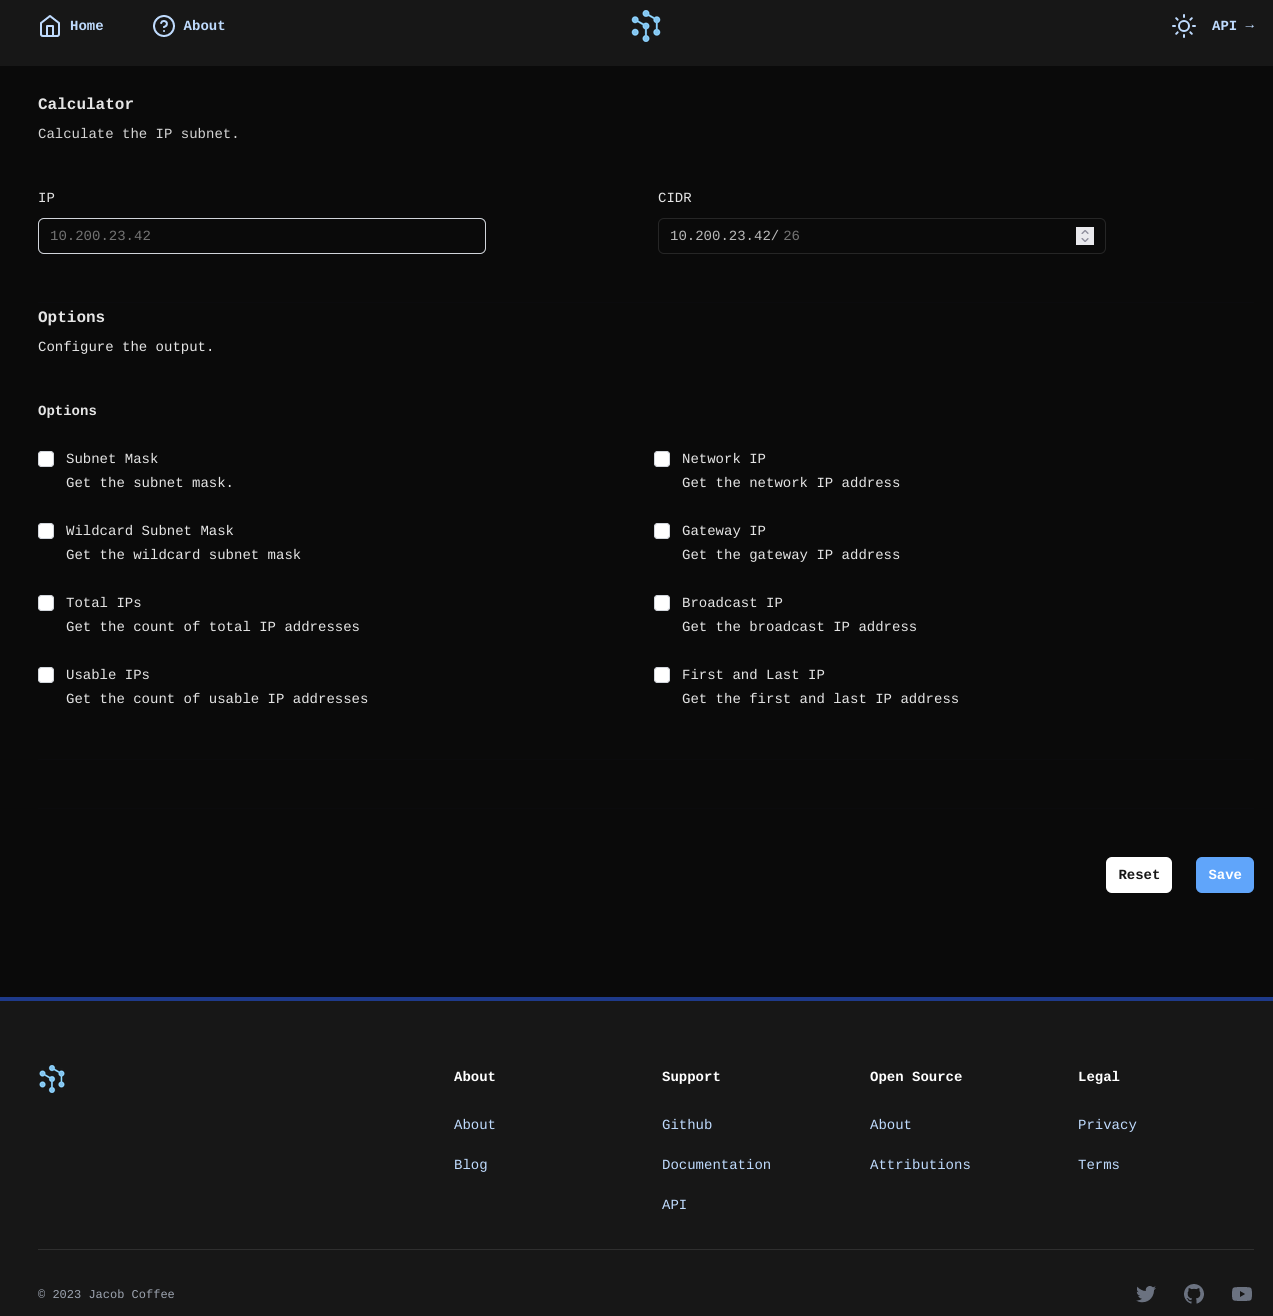
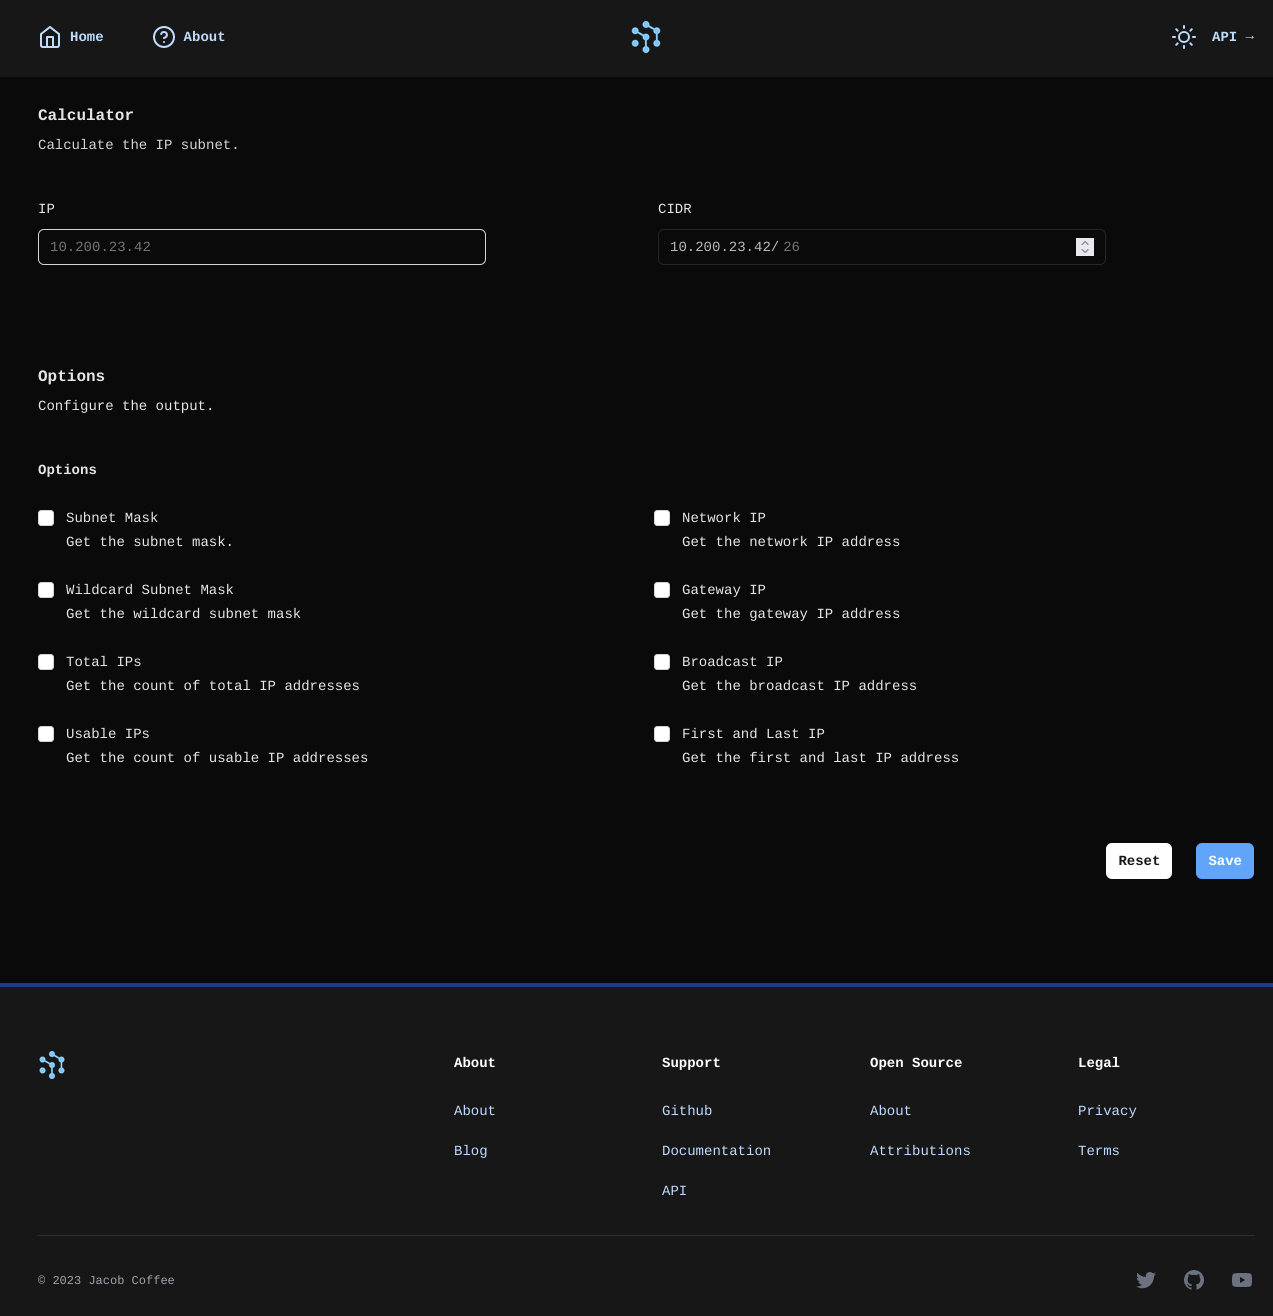
fix(style): resolves issue with footer color

diff --git a/niapi/domain/web/templates/base/footer.html b/niapi/domain/web/templates/base/footer.html
@@ -12,7 +12,11 @@
       <div class="mt-16 grid grid-cols-2 gap-8 xl:col-span-2 xl:mt-0">
         <div class="md:grid md:grid-cols-2 md:gap-8">
           <div>
-            <h3 class="text-sm font-semibold leading-6 text-white">About</h3>
+            <h3
+              class="text-sm font-semibold leading-6 text-neutral-600 dark:text-white"
+            >
+              About
+            </h3>
             <ul role="list" class="mt-6 space-y-4">
               <li>
                 <a
@@ -31,7 +35,11 @@
             </ul>
           </div>
           <div class="mt-10 md:mt-0">
-            <h3 class="text-sm font-semibold leading-6 text-white">Support</h3>
+            <h3
+              class="text-sm font-semibold leading-6 text-neutral-600 dark:text-white"
+            >
+              Support
+            </h3>
             <ul role="list" class="mt-6 space-y-4">
               <li>
                 <a
@@ -59,7 +67,9 @@
         </div>
         <div class="md:grid md:grid-cols-2 md:gap-8">
           <div>
-            <h3 class="text-sm font-semibold leading-6 text-white">
+            <h3
+              class="text-sm font-semibold leading-6 text-neutral-600 dark:text-white"
+            >
               Open Source
             </h3>
             <ul role="list" class="mt-6 space-y-4">
@@ -80,7 +90,11 @@
             </ul>
           </div>
           <div class="mt-10 md:mt-0">
-            <h3 class="text-sm font-semibold leading-6 text-white">Legal</h3>
+            <h3
+              class="text-sm font-semibold leading-6 text-neutral-600 dark:text-white"
+            >
+              Legal
+            </h3>
             <ul role="list" class="mt-6 space-y-4">
               <li>
                 <a

diff --git a/niapi/domain/web/resources/style.css b/niapi/domain/web/resources/style.css
@@ -1264,6 +1264,26 @@ select {
   color: rgb(255 255 255 / var(--tw-text-opacity));
 }
 
+.text-neutral-600 {
+  --tw-text-opacity: 1;
+  color: rgb(82 82 82 / var(--tw-text-opacity));
+}
+
+.text-slate-800 {
+  --tw-text-opacity: 1;
+  color: rgb(30 41 59 / var(--tw-text-opacity));
+}
+
+.text-black {
+  --tw-text-opacity: 1;
+  color: rgb(0 0 0 / var(--tw-text-opacity));
+}
+
+.text-neutral-800 {
+  --tw-text-opacity: 1;
+  color: rgb(38 38 38 / var(--tw-text-opacity));
+}
+
 .antialiased {
   -webkit-font-smoothing: antialiased;
   -moz-osx-font-smoothing: grayscale;
@@ -1451,6 +1471,21 @@ select {
 :is(.dark .dark\:text-neutral-300) {
   --tw-text-opacity: 1;
   color: rgb(212 212 212 / var(--tw-text-opacity));
+}
+
+:is(.dark .dark\:text-neutral-900) {
+  --tw-text-opacity: 1;
+  color: rgb(23 23 23 / var(--tw-text-opacity));
+}
+
+:is(.dark .dark\:text-white) {
+  --tw-text-opacity: 1;
+  color: rgb(255 255 255 / var(--tw-text-opacity));
+}
+
+:is(.dark .dark\:text-neutral-600) {
+  --tw-text-opacity: 1;
+  color: rgb(82 82 82 / var(--tw-text-opacity));
 }
 
 :is(.dark .dark\:placeholder-neutral-500)::-moz-placeholder {
